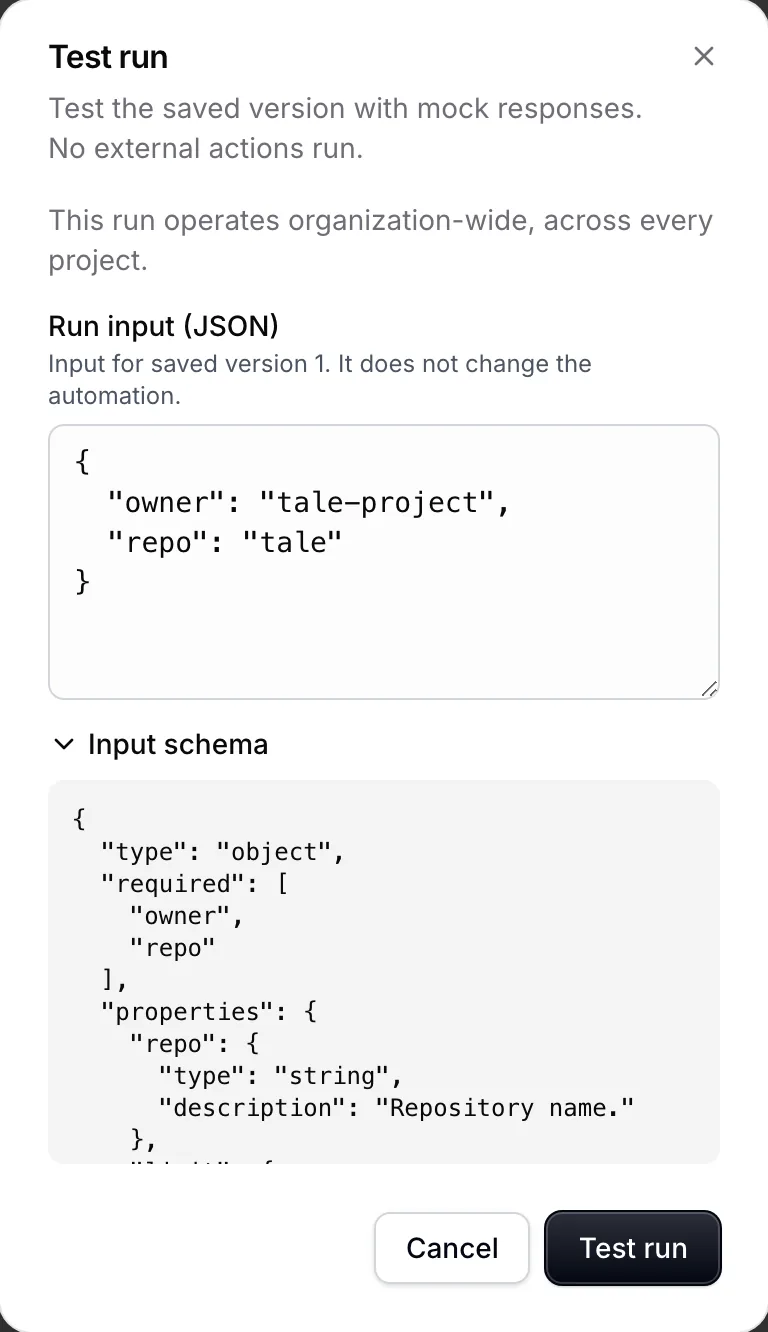
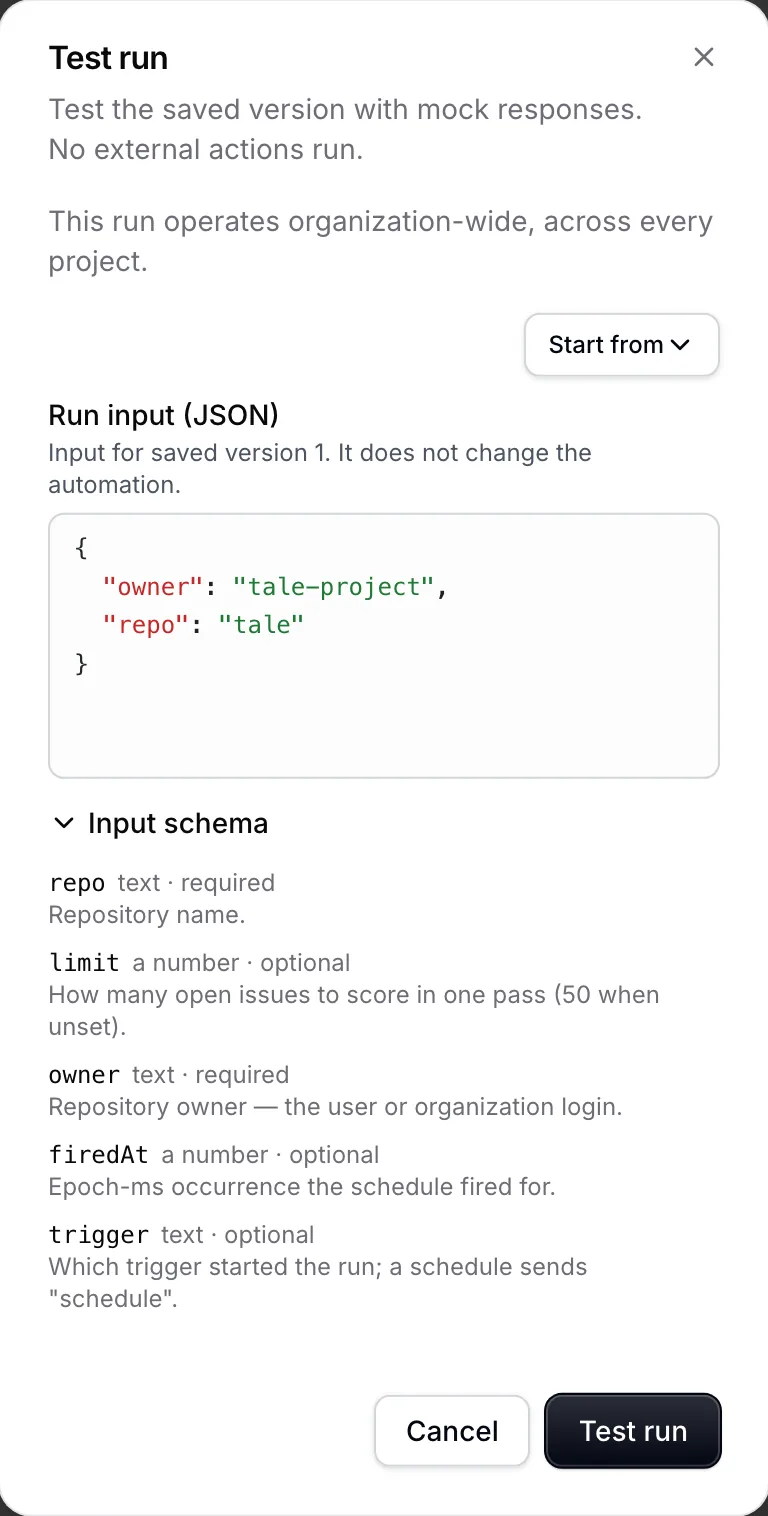
docs(docs): describe where a test run's input starts from
The editor page's Try the draft explains Start from and a test's stand-ins, with a screenshot of the menu; the run input shot is taken again with the button.

diff --git a/services/platform/tests/docs-screenshots/manifest.ts b/services/platform/tests/docs-screenshots/manifest.ts
@@ -2443,6 +2443,40 @@ export const SHOTS: readonly Shot[] = [
         ),
   },
   {
+    // The Test run dialog of a draft with Start from open: the tests to
+    // start the input from, and nothing or the required fields.
+    name: 'automation-run-start-from',
+    section: 'platform',
+    route: `/dashboard/:orgId/automations/${DEMO_TESTS.automation}/editor?panel=tests`,
+    prepare: async (page) => {
+      await settleAutomationEditor(page);
+      const dock = page.getByRole('region', {
+        name: t('automations.tests.title'),
+        exact: true,
+      });
+      await dock
+        .getByRole('button', { name: t('automations.tests.add') })
+        .first()
+        .click();
+      await page
+        .getByRole('menuitem', { name: t('automations.tests.addFrom.blank') })
+        .click();
+      await page
+        .getByRole('button', { name: t('automations.detail.runMock') })
+        .filter({ visible: true })
+        .first()
+        .click();
+      await page
+        .getByRole('dialog', { name: t('automations.detail.runMock') })
+        .getByRole('button', { name: t('automations.detail.runSource.button') })
+        .click();
+    },
+    readyWhen: (page) =>
+      page
+        .getByRole('menu')
+        .getByRole('menuitem', { name: DEMO_TESTS.failing }),
+  },
+  {
     // A test run of v1 and one of v2 of the weekly digest compared: what
     // differs, with the way to the versions' comparison, and both runs on
     // the steps of both versions — Summarize, which v1 lacks, dashed for A.

diff --git a/docs/fr/platform/automations/editor.md b/docs/fr/platform/automations/editor.md
@@ -210,13 +210,21 @@ Pour vérifier les mêmes cas à chaque enregistrement et avant chaque mise en s
 
 <Frame caption="Pour un workflow avec des données d’entrée, saisis le JSON et vérifie le schéma avant le test.">
 
-![Le dialogue de test montre les valeurs JSON owner et repo dans l’éditeur de code et le schéma des données déplié sous forme de liste de champs.](/images/platform/automation-run-input.webp)
+![Le dialogue de test montre Start from au-dessus de Run input (JSON), les valeurs JSON owner et repo dans l’éditeur de code et le schéma des données déplié sous forme de liste de champs.](/images/platform/automation-run-input.webp)
 
 </Frame>
 
 ### Essayer le brouillon {#try-the-draft}
 
 Avec des modifications non enregistrées, **Essai** demande d’abord **Ce qui s’exécute**. **Ce brouillon (non enregistré)** exécute une fois tes modifications avec les mêmes simulations, sans les enregistrer : l’exécution n’est conservée nulle part et n’apparaît pas sous **Exécutions**. L’autre choix, par exemple **Version 3**, exécute la version enregistrée affichée, comme plus haut. L’entrée est vérifiée par rapport au schéma d’entrée de ce que tu choisis.
+
+**À partir de**, au-dessus de **Données de l’exécution (JSON)**, remplit l’entrée à partir d’un test, de l’une des cinq exécutions les plus récentes, de l’entrée du déclencheur, de rien (**Vide**) ou d’un espace réservé pour chaque champ obligatoire (**Remplir les champs obligatoires**). La boîte de dialogue s’ouvre sur ton dernier choix pour l’automatisation. Quand le test dont tu pars simule des nœuds, **Utiliser les sorties et échecs simulés du test** apparaît, activé par défaut : l’essai remplace alors ces nœuds comme le fait le test, et ils portent **Sortie simulée** ou **Échec simulé** sur le canevas. L’exécution d’une version enregistrée ne les utilise pas.
+
+<Frame caption="À partir de dans la boîte de dialogue d’essai d’un brouillon : les tests et les exécutions d’où peut venir l’entrée, rien, ou les champs obligatoires.">
+
+![La boîte de dialogue d’essai d’Order discounts avec This draft (not saved) choisi sous What runs et le menu Start from ouvert : sous Tests, Small order pays full price, Big order gets 10% off et New test ; sous Runs, une exécution réussie ; sous Other, Empty et Fill the required fields.](/images/platform/automation-run-start-from.webp)
+
+</Frame>
 
 L’exécution du brouillon s’affiche ensuite sur le canevas à la place de la dernière exécution, sous une bande **Test non enregistré** qui indique comment elle s’est terminée et quand, par exemple **Réussi en 12 ms** ou **Échec à Score**, et elle se rejoue étape par étape comme une exécution enregistrée. Sélectionne un nœud pour voir ce qu’il a reçu et renvoyé dans son onglet **Test non enregistré**. Dès que tu modifies le brouillon, la bande indique **Le brouillon a changé depuis cet essai.** **Réessayer** exécute le brouillon tel qu’il est maintenant, avec la même entrée ; ⌘⇧Entrée (Ctrl+Maj+Entrée) fait de même tant que le canevas ou l’inspecteur a le focus. **Masquer le résultat** ramène la dernière exécution. Un essai s’arrête après 20 secondes.
 

diff --git a/docs/de/platform/automations/editor.md b/docs/de/platform/automations/editor.md
@@ -210,13 +210,21 @@ Damit dieselben Fälle bei jedem Speichern und vor jedem Live-Schalten geprüft 
 
 <Frame caption="Hat der Workflow Eingaben, gib JSON an und prüfe sein Schema vor dem Teststart.">
 
-![Der Testlauf-Dialog zeigt JSON-Werte für owner und repo im Code-Editor und das aufgeklappte Eingabeschema als Liste von Feldern.](/images/platform/automation-run-input.webp)
+![Der Testlauf-Dialog zeigt Start from über Run input (JSON), JSON-Werte für owner und repo im Code-Editor und das aufgeklappte Eingabeschema als Liste von Feldern.](/images/platform/automation-run-input.webp)
 
 </Frame>
 
 ### Den Entwurf ausprobieren {#try-the-draft}
 
 Mit ungespeicherten Änderungen fragt **Testlauf** zuerst **Was läuft**. **Dieser Entwurf (nicht gespeichert)** führt deine Änderungen einmal mit denselben Mocks aus, ohne sie zu speichern: Der Lauf wird nirgends behalten und erscheint nicht unter **Läufe**. Die andere Wahl, etwa **Version 3**, führt wie oben die gespeicherte Version aus, die du gerade siehst. Die Eingabe wird gegen das Eingabeschema dessen geprüft, was du wählst.
+
+**Ausgehen von** über **Eingabe für den Lauf (JSON)** füllt die Eingabe aus einem Test, einem der fünf neuesten Läufe, der Eingabe des Triggers, mit nichts (**Leer**) oder mit einem Platzhalter für jedes Pflichtfeld (**Pflichtfelder ausfüllen**). Der Dialog öffnet mit deiner letzten Wahl für die Automatisierung. Simuliert der Test, von dem du ausgehst, Nodes, erscheint **Simulierte Ausgaben und Fehler des Tests verwenden**, standardmäßig eingeschaltet: Der Versuch springt dann wie der Test für diese Nodes ein, und sie tragen auf dem Canvas **Simulierte Ausgabe** oder **Simulierter Fehler**. Der Lauf einer gespeicherten Version verwendet sie nicht.
+
+<Frame caption="Ausgehen von im Testlauf-Dialog eines Entwurfs: die Tests und Läufe, aus denen die Eingabe kommen kann, nichts oder die Pflichtfelder.">
+
+![Der Testlauf-Dialog von Order discounts mit This draft (not saved) unter What runs und dem geöffneten Menü Start from: unter Tests Small order pays full price, Big order gets 10% off und New test; unter Runs ein erfolgreicher Lauf; unter Other Empty und Fill the required fields.](/images/platform/automation-run-start-from.webp)
+
+</Frame>
 
 Der Lauf des Entwurfs liegt danach anstelle des letzten Laufs auf dem Canvas, unter einem Streifen **Ungespeicherter Test**, der sagt, wie er endete und wann, etwa **Erfolgreich in 12 ms** oder **Fehlgeschlagen bei Score**. Er lässt sich wie ein aufgezeichneter Lauf Schritt für Schritt abspielen. Wähle eine Node, um auf ihrem Tab **Ungespeicherter Test** zu sehen, was sie erhalten und zurückgegeben hat. Sobald du den Entwurf änderst, sagt der Streifen **Der Entwurf hat sich seit diesem Versuch geändert.** **Erneut ausprobieren** führt den Entwurf so aus, wie er jetzt ist, mit derselben Eingabe; ⌘⇧Enter (Strg+Umschalt+Enter) tut dasselbe, solange der Canvas oder der Inspektor den Fokus hat. **Ergebnis ausblenden** zeigt wieder den letzten Lauf. Ein Versuch stoppt nach 20 Sekunden.
 

diff --git a/docs/en/platform/automations/editor.md b/docs/en/platform/automations/editor.md
@@ -210,13 +210,21 @@ To check the same cases on every save and before every deploy, write them as tes
 
 <Frame caption="For an input-driven workflow, supply JSON and inspect its schema before starting the test.">
 
-![The Test run dialog shows owner and repo JSON values in the code editor and the expanded input schema as a list of fields.](/images/platform/automation-run-input.webp)
+![The Test run dialog shows Start from above Run input (JSON), owner and repo JSON values in the code editor, and the expanded input schema as a list of fields.](/images/platform/automation-run-input.webp)
 
 </Frame>
 
 ### Try the draft {#try-the-draft}
 
 With unsaved changes, **Test run** first asks **What runs**. **This draft (not saved)** runs your changes once with the same mocks, without saving them: the run is kept nowhere and does not appear under **Runs**. The other choice, such as **Version 3**, runs the saved version on screen, as above. The run input is checked against the input schema of the one you choose.
+
+**Start from**, above **Run input (JSON)**, fills the input from a test, one of the five newest runs, the trigger's input, nothing (**Empty**), or a placeholder for each required field (**Fill the required fields**). The dialog opens on your last choice for the automation. When the test you start from simulates steps, **Use the test's simulated outputs and failures** appears, on by default: the try then stands in for those steps as the test does, and they carry **Simulated output** or **Simulated failure** on the canvas. A saved version's run doesn't use them.
+
+<Frame caption="Start from in the Test run dialog of a draft: the tests and runs to take the input from, nothing, or the required fields.">
+
+![The Test run dialog of Order discounts with This draft (not saved) chosen under What runs and the Start from menu open: under Tests, Small order pays full price, Big order gets 10% off and New test; under Runs, a run that succeeded; under Other, Empty and Fill the required fields.](/images/platform/automation-run-start-from.webp)
+
+</Frame>
 
 The draft's run then lies over the canvas in place of the last run, under an **Unsaved test** strip that says how it ended and when, such as **Succeeded in 12 ms** or **Failed at Score**, and it plays back step by step like a recorded run. Select a node to see what it received and returned on its **Unsaved test** tab. Once you change the draft, the strip says **The draft changed since this try.** **Try again** runs the draft as it is now, with the same input; ⌘⇧Enter (Ctrl+Shift+Enter) does the same while the canvas or the inspector has focus. **Hide result** brings back the last run. A try stops after 20 seconds.
 
